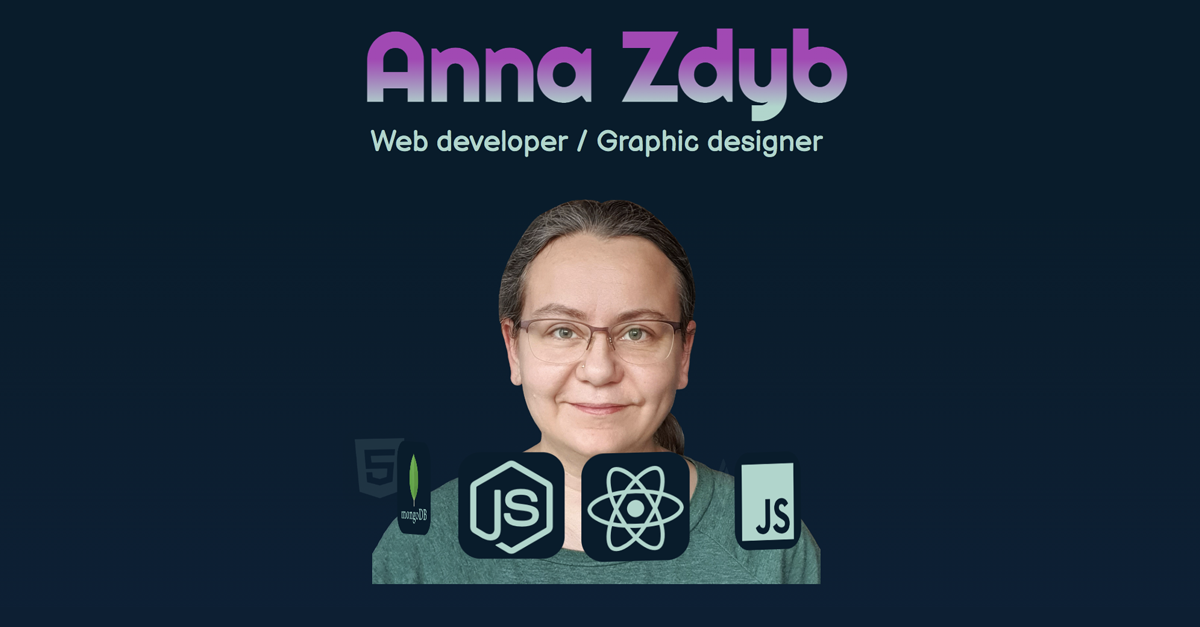
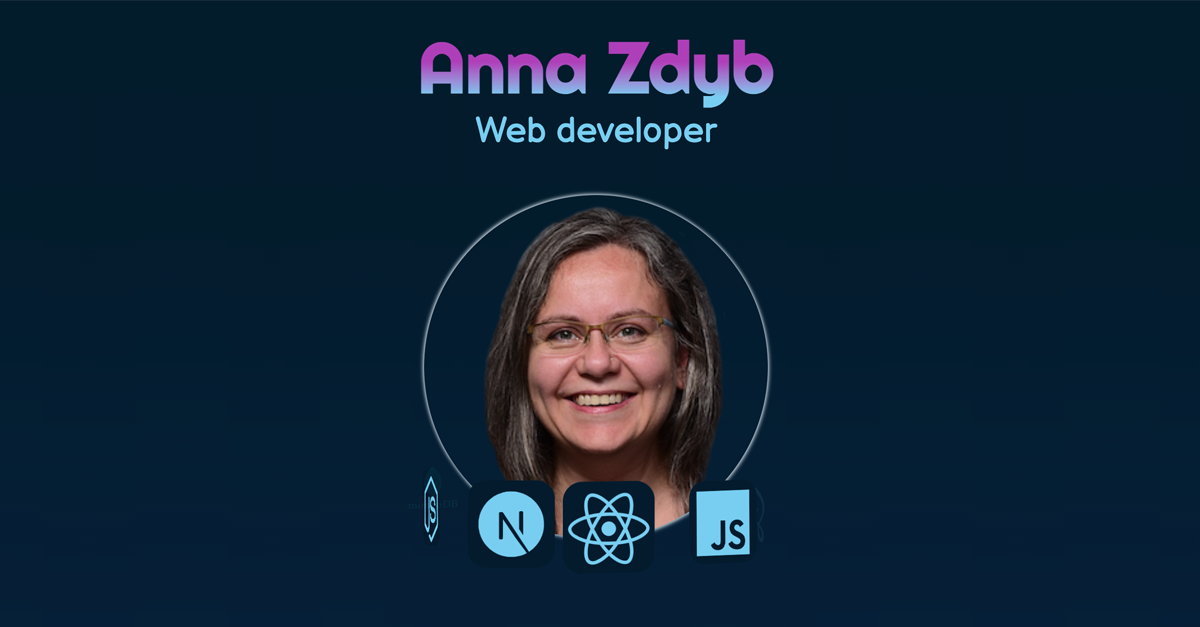
swap thumbnail picture

Changed region(s): [[0.2775, 0.303, 0.7092, 0.9394], [0.3083, 0.0303, 0.7092, 0.2424], [0.3392, 0.4545, 0.37, 0.5758]]

diff --git a/index.html b/index.html
@@ -22,7 +22,7 @@
     <meta property="og:title" content="Anna Zdyb" />
     <meta
       property="og:image"
-      content="https://i.ibb.co/VWGFSHF/WEB-Portfolio-thumb-03.png"
+      content="https://i.ibb.co/qWn8JYK/WEB-Portfolio-thumb-03.png"
     />
     <meta
       property="og:description"
@@ -38,7 +38,9 @@
     <nav>
       <div class="navigation">
         <a href="./index.html"><button class="link active">Home</button></a>
-        <a href="./index.html#projects"><button class="link">Projects</button></a>
+        <a href="./index.html#projects"
+          ><button class="link">Projects</button></a
+        >
         <a href="#skills"><button class="link">Skills</button></a>
         <a href="#about"><button class="link">About</button></a>
         <a href="./contact.html"> <button class="link">Contact</button></a>
@@ -72,19 +74,23 @@
       </div>
     </section>
     <section>
-        <div class="container">
-            <div class="box1"> <i class="fa-brands fa-html5"></i></div>
-            <div class="box2"><i class="fa-brands fa-css3-alt"></i></div>
-            <div class="box3"><i class="fa-brands fa-sass"></i></div>
-            <div class="box4"><i class="fa-brands fa-js"></i> </div>
-            <div class="box5"> <i class="fa-brands fa-react"></i></div>
-            <div class="box6"> </div>
-            <div class="box7"> <i class="fa-brands fa-node-js"></i></div>
-            <div class="box8"> </div>
-            <div class="picture">
-                <img  class="picture__img" src="./assets/my-picture.png" alt="Anna Zdyb" />
-            </div>
+      <div class="container">
+        <div class="box1"><i class="fa-brands fa-html5"></i></div>
+        <div class="box2"><i class="fa-brands fa-css3-alt"></i></div>
+        <div class="box3"><i class="fa-brands fa-sass"></i></div>
+        <div class="box4"><i class="fa-brands fa-js"></i></div>
+        <div class="box5"><i class="fa-brands fa-react"></i></div>
+        <div class="box6"></div>
+        <div class="box7"><i class="fa-brands fa-node-js"></i></div>
+        <div class="box8"></div>
+        <div class="picture">
+          <img
+            class="picture__img"
+            src="./assets/my-picture.png"
+            alt="Anna Zdyb"
+          />
         </div>
+      </div>
     </section>
     <p>Programmer, Designer, Scientist<br /></p>
 
@@ -97,35 +103,33 @@
 
       <div class="skills">
         <div>
-            <h2 > Web Dev Skills: </h2>
-            <ul>
-                <li>HTML5</li>
-                <li>CSS</li>
-                <li>Sass</li>
-                <li>JavaScript</li>
-                <li>TypeScript</li>
-                <li>React</li>
-                <li>Next.js</li>
-                <li>GraphQL</li>
-                <li>Node.js</li>
-                <li>Express</li>
-                <li>MongoDB</li>
-                <li>Git</li>
-               
-              
-            </ul>
+          <h2>Web Dev Skills:</h2>
+          <ul>
+            <li>HTML5</li>
+            <li>CSS</li>
+            <li>Sass</li>
+            <li>JavaScript</li>
+            <li>TypeScript</li>
+            <li>React</li>
+            <li>Next.js</li>
+            <li>GraphQL</li>
+            <li>Node.js</li>
+            <li>Express</li>
+            <li>MongoDB</li>
+            <li>Git</li>
+          </ul>
         </div>
         <div>
-            <h2> Graphic Skills: </h2>
-            <ul>
-                <li>Figma</li>
-                <li>Adobe Illustrator</li>
-                <li>Affinity Designer</li>
-                <li>Inkscape</li>
-                <li>Adobe XD</li>
-                <li>Photoshop</li>
-                <li>Procreate</li>
-            </ul>
+          <h2>Graphic Skills:</h2>
+          <ul>
+            <li>Figma</li>
+            <li>Adobe Illustrator</li>
+            <li>Affinity Designer</li>
+            <li>Inkscape</li>
+            <li>Adobe XD</li>
+            <li>Photoshop</li>
+            <li>Procreate</li>
+          </ul>
         </div>
       </div>
       <a href="#backToTop"><button class="formButton">&uarr;</button></a>
@@ -361,29 +365,34 @@
     </section>
     <!-- <div class="copyright"></div> -->
     <div class="footer">
-        <div class="footer__links">
-          <a href="https://github.com/anna-1980" target="_blank" rel="noopener">
-            <i class="fa-brands fa-github"></i>
-          </a>
-         
-          <a href="https://www.linkedin.com/in/dr-anna-zdyb/" target="_blank" rel="noopener">
-            <i class="fa-brands fa-linkedin"></i>
-          </a>
-          <a href="https://www.instagram.com/anna.z.z.a.g/?hl=en" target="_blank" rel="noopener">
-            <i class="fa-brands fa-instagram"></i>
-          </a>
-        
-        </div>
-        <div class="copyright" id="year"></div>
-        <script >
-            const year = document.querySelector(".copyright");
+      <div class="footer__links">
+        <a href="https://github.com/anna-1980" target="_blank" rel="noopener">
+          <i class="fa-brands fa-github"></i>
+        </a>
+
+        <a
+          href="https://www.linkedin.com/in/dr-anna-zdyb/"
+          target="_blank"
+          rel="noopener"
+        >
+          <i class="fa-brands fa-linkedin"></i>
+        </a>
+        <a
+          href="https://www.instagram.com/anna.z.z.a.g/?hl=en"
+          target="_blank"
+          rel="noopener"
+        >
+          <i class="fa-brands fa-instagram"></i>
+        </a>
+      </div>
+      <div class="copyright" id="year"></div>
+      <script>
+        const year = document.querySelector(".copyright");
         const date = new Date().getFullYear();
-        
+
         year.innerHTML = `${date} © Anna Zdyb`;
         console.log(year);
-        </script>
-      </div>
+      </script>
+    </div>
   </body>
-
 </html>
-
